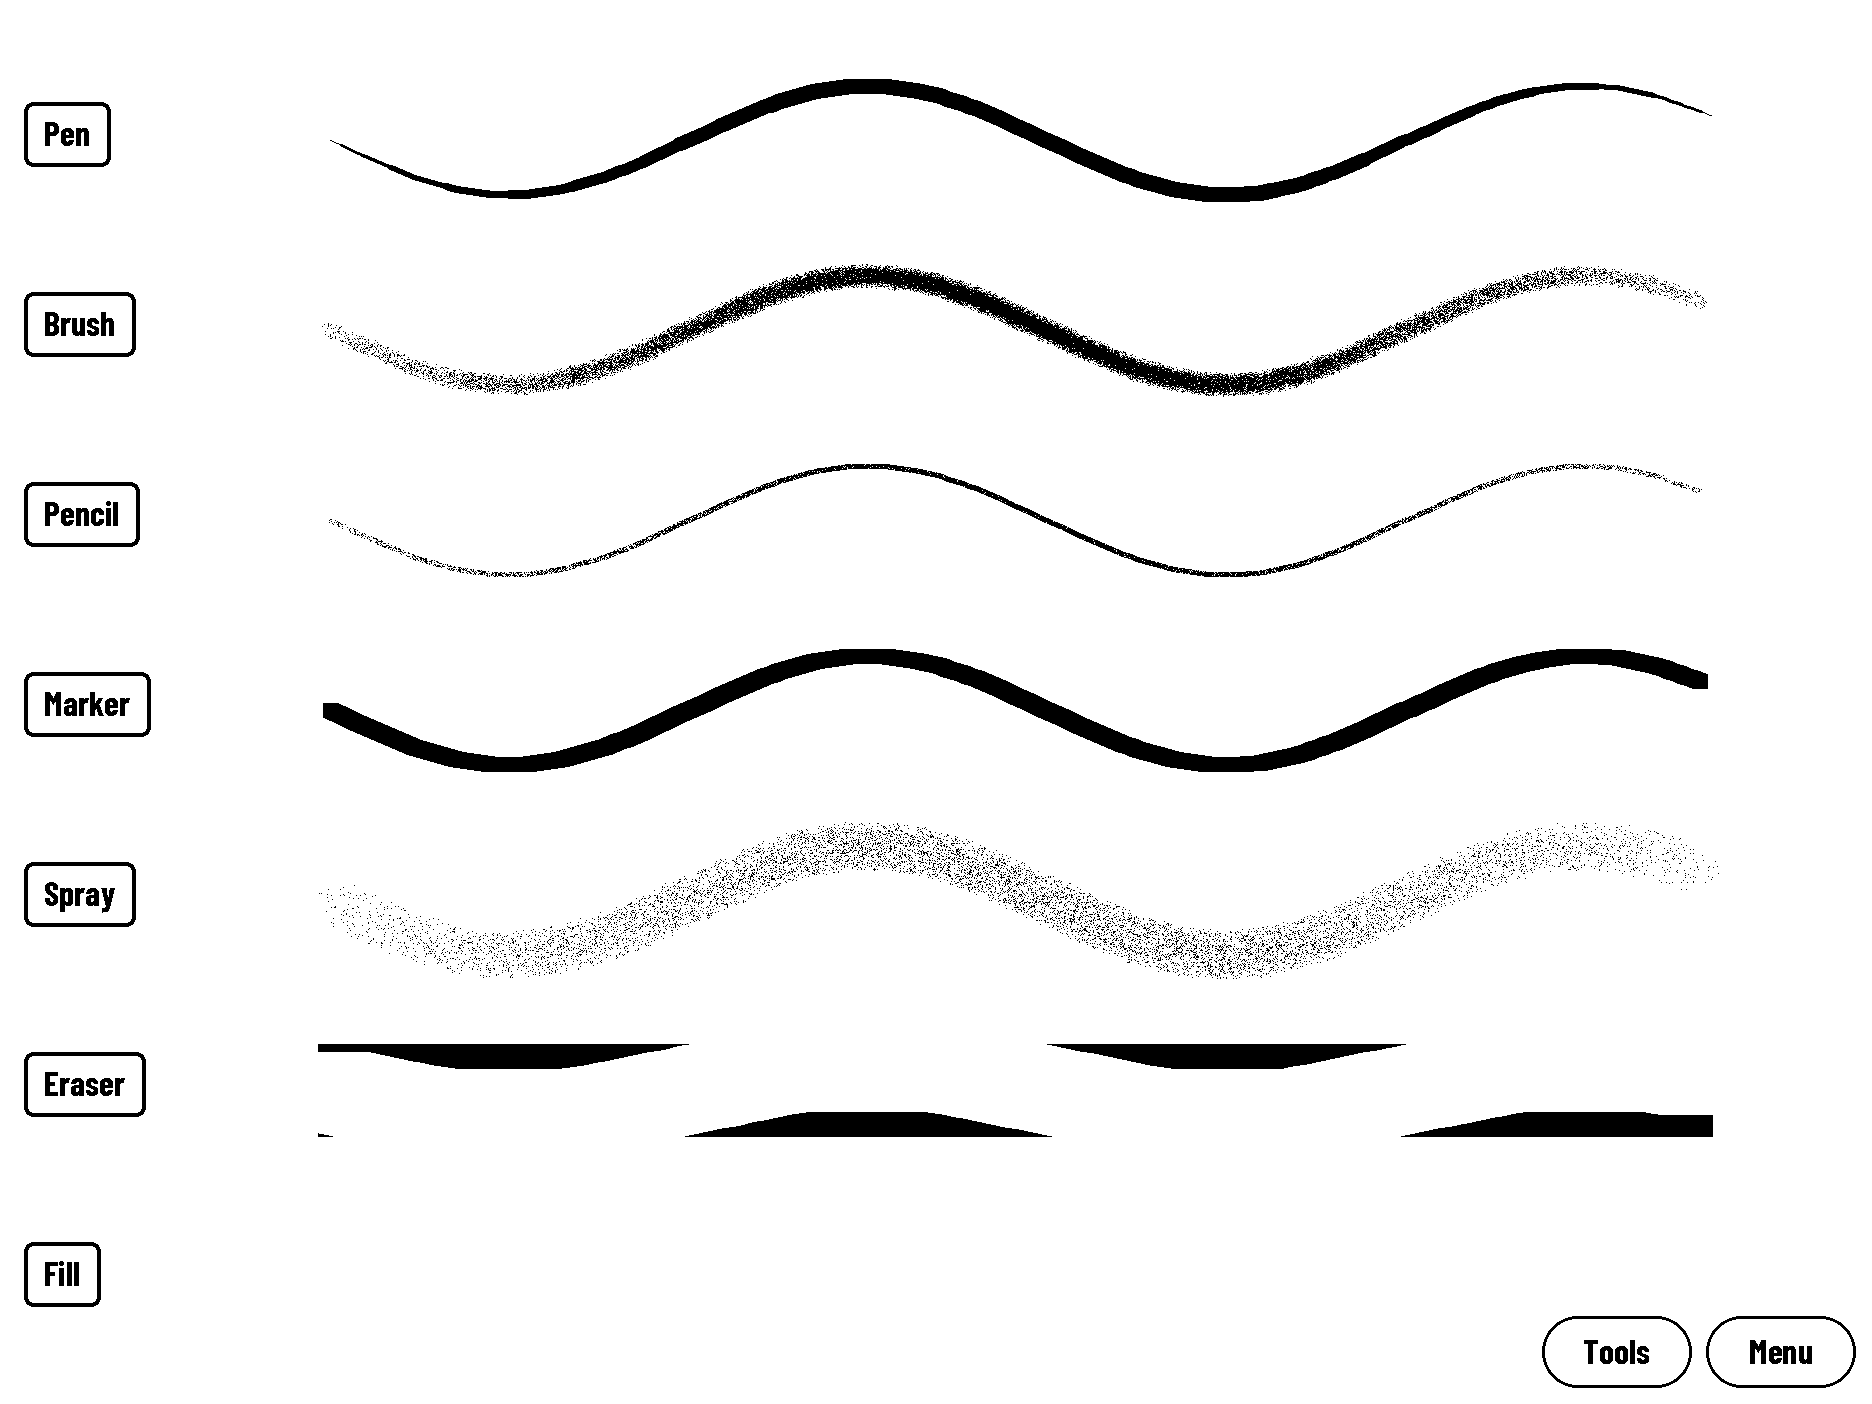
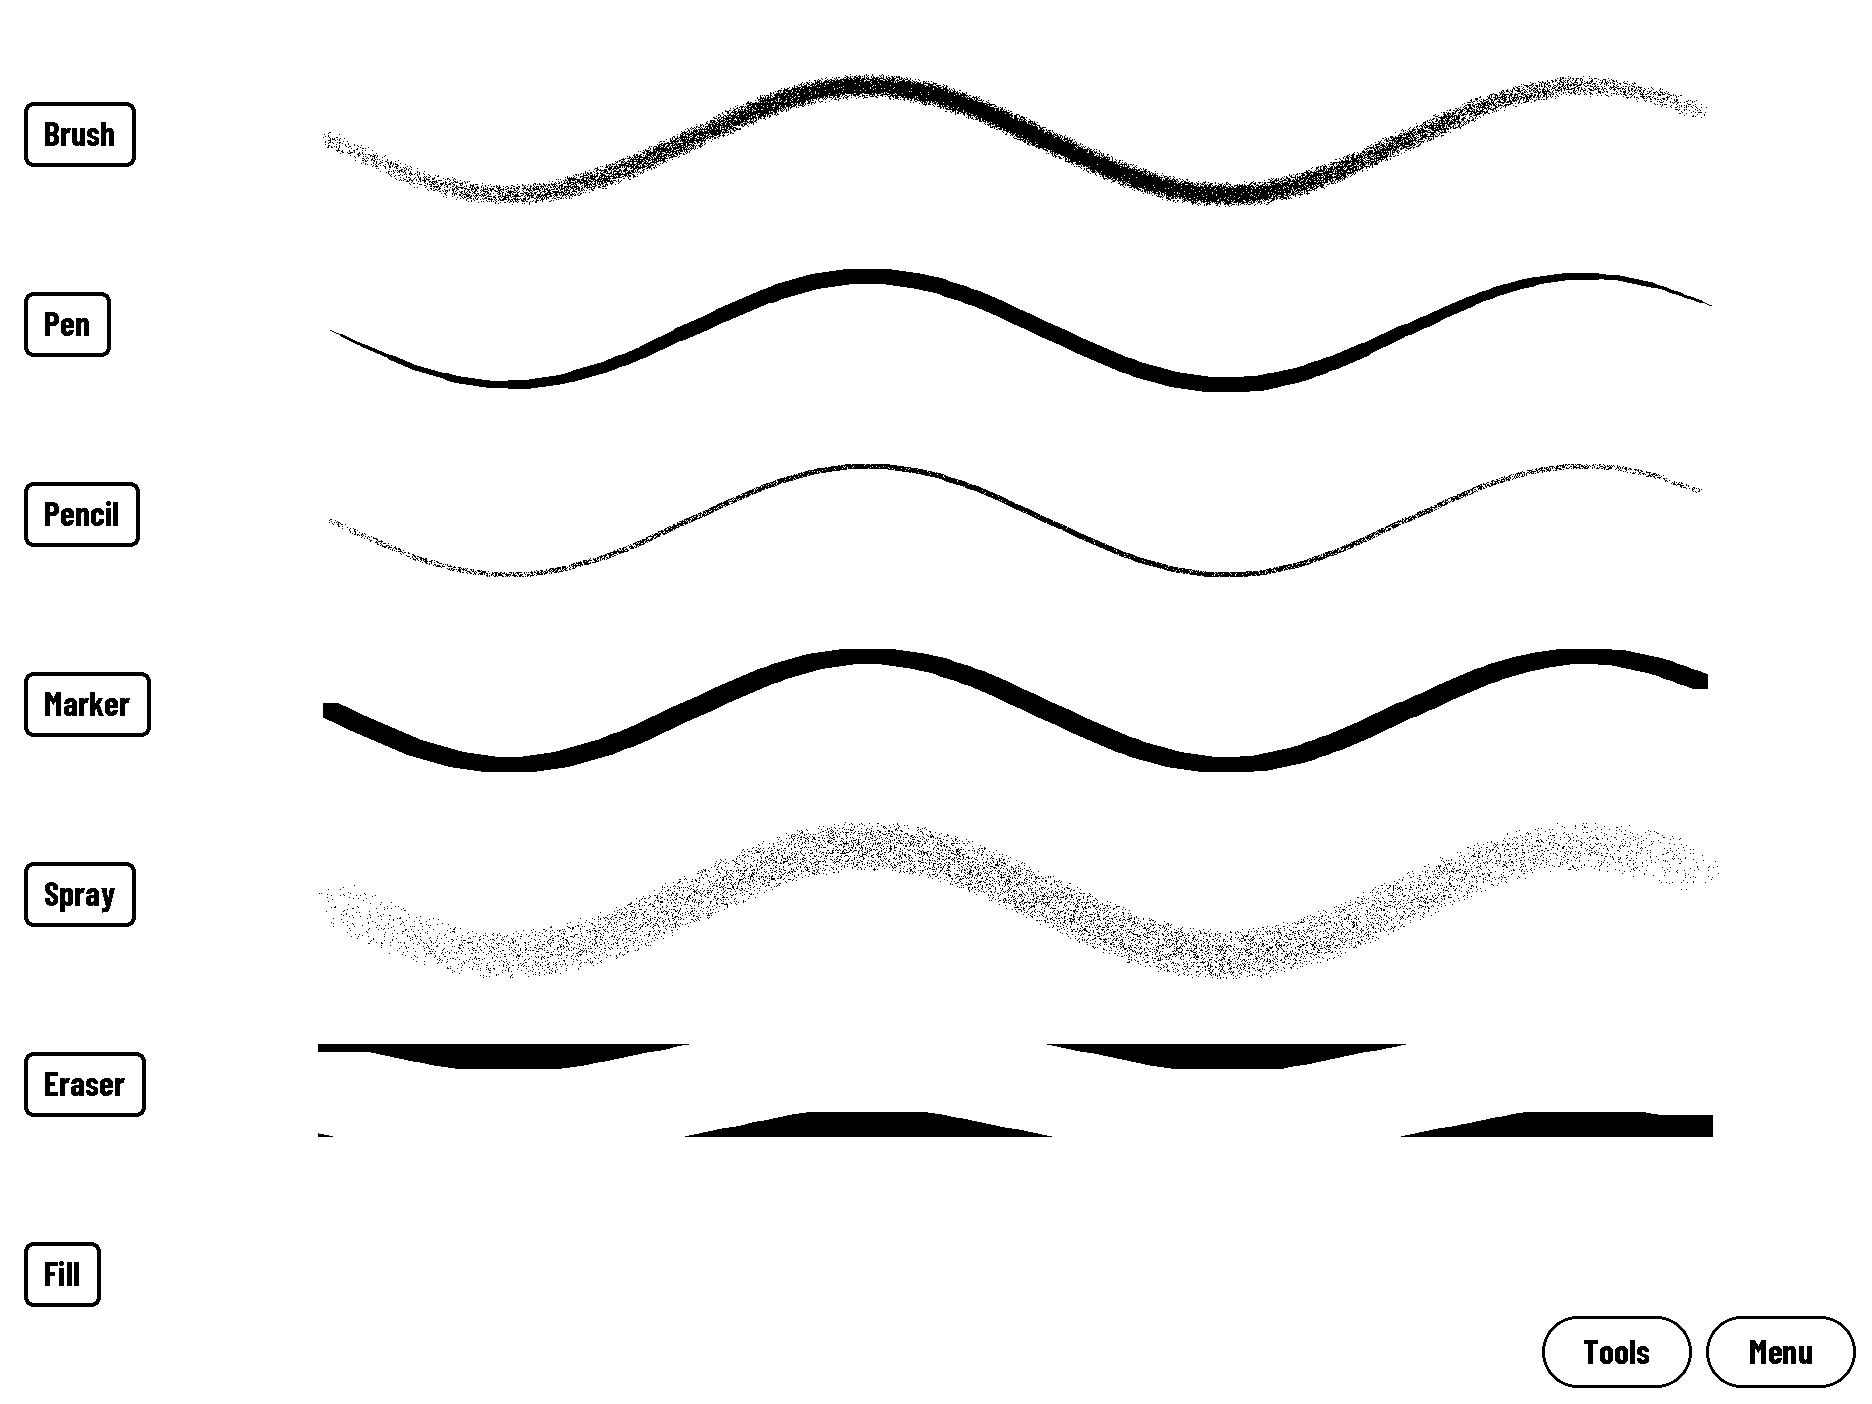
Brush first: Sketch always opens with the Brush; toolbar names come from the tool list
Owner: start with the best tool. The Brush is tool 0 and the first button; the
saved tool is no longer read (colour and size still are). The test rig draws
with the Pen unless keep_tool is set.
Guards: test_oldpage expects the Brush whatever was saved (red with the Pen as
start tool); test_labels_follow_tools (red with the old fixed label table, which
had shown Pen over the Brush icon).

diff --git a/src/brush.c b/src/brush.c
@@ -5,7 +5,7 @@
 #include "penmap.h"
 #include "sk_cfg.h"
 
-static const char *const names[BR_N] = { "Pen", "Brush", "Pencil", "Marker", "Spray", "Eraser", "Fill" };
+static const char *const names[BR_N] = { "Brush", "Pen", "Pencil", "Marker", "Spray", "Eraser", "Fill" };
 
 const char *brush_name(int b) { return names[b < 0 || b >= BR_N ? 0 : b]; }
 const char *shade_name(int sh) { return sh == SH_BLACK ? "Black" : sh == SH_WHITE ? "White" : "Grey"; }
@@ -15,19 +15,13 @@ int brush_is_fill(int b) { return b == BR_FILL; }
 int brush_tail(int b) { return b == BR_PEN; }
 
 /* Small, Medium, Big per brush (pen size = the diameter in px; the eraser's is its side). Fill has no size: it shares the pen's row so the buttons keep their pick */
-static const uint8_t sizes[BR_N][BR_SIZES] = { { 5, 9, 17 }, { 12, 22, 40 }, { 5, 9, 17 }, { 6, 10, 18 }, { 8, 14, 26 }, { 14, 27, 44 }, { 5, 9, 17 } };
+static const uint8_t sizes[BR_N][BR_SIZES] = { { 12, 22, 40 }, { 5, 9, 17 }, { 5, 9, 17 }, { 6, 10, 18 }, { 8, 14, 26 }, { 14, 27, 44 }, { 5, 9, 17 } };
 int brush_size(int b, int cls) { return sizes[b < 0 || b >= BR_N ? 0 : b][cls < 0 ? 0 : cls >= BR_SIZES ? BR_SIZES - 1 : cls]; }
 int brush_size_cls(int b, int size)
 {
     for (int c = 0; c < BR_SIZES; c++)
         if (brush_size(b, c) == size) return c;
     return -1;
-}
-/* Settings of the earlier table: 0 fineliner and 1 brush pen are the Pen, 4 calligraphy the Pen, the rest keep their tool */
-int brush_from_old(int o)
-{
-    static const uint8_t map[8] = { BR_PEN, BR_PEN, BR_PENCIL, BR_MARKER, BR_PEN, BR_SPRAY, BR_ERASER, BR_FILL };
-    return o >= 0 && o < 8 ? map[o] : BR_PEN;
 }
 
 static int sz(int size) { return size < SK_SIZE_MIN ? SK_SIZE_MIN : size > SK_SIZE_MAX ? SK_SIZE_MAX : size; }
@@ -186,7 +180,7 @@ static void stamp_spray(const bctx_t *k, int x, int y, int p) /* dots about the 
 
 static void stamp_none(const bctx_t *k, int x, int y, int p) { (void)k, (void)x, (void)y, (void)p; } /* the bucket draws no stroke */
 
-static const stamp_fn stamps[BR_N] = { stamp_pen, stamp_brush, stamp_pencil, stamp_square, stamp_spray, stamp_square, stamp_none };
+static const stamp_fn stamps[BR_N] = { stamp_brush, stamp_pen, stamp_pencil, stamp_square, stamp_spray, stamp_square, stamp_none };
 
 static void seg_img(const bstyle_t *st, int img, int colour, canvas_t *c, int x0, int y0, int p0, int t0, int x1, int y1, int p1, int t1, box_t *dirty);
 

diff --git a/test/test_toolbar.c b/test/test_toolbar.c
@@ -45,6 +45,12 @@ static void scribble(rig_t *r) /* ink across the places the strip will cover and
     settle(r);
 }
 
+static void test_labels_follow_tools(void)
+{
+    for (int b = 0; b < BR_N; b++) CHECK(!strcmp(tb_label(TI_BRUSH + b), brush_name(b))); /* the button that picks a tool carries its name */
+    CHECK(!strcmp(tb_label(TI_BRUSH), "Brush") && !strcmp(tb_label(TI_MIRROR), "Mirror"));
+}
+
 static void test_toggle_and_restore(void)
 {
     for (int o = 0; o < 4; o++) { /* every position of the X */
@@ -294,9 +300,10 @@ static void test_brushes_through_the_app(void)
             sk_redo(&r.s, r.now += 50);
             CHECK(!memcmp(after, r.s.page.px, sizeof(after)));
             sk_save_now(&r.s);
+            r.keep_tool = 1;
             rig_start(&r, APP_ORIENT_BAR_BOTTOM); /* the page file comes back as it was */
             CHECK(!memcmp(after, r.s.page.px, sizeof(after)));
-            CHECK(r.s.sty.brush == (b == BR_ERASER ? BR_PEN : b) && r.s.sty.shade == sh); /* the pick is kept (not the eraser) */
+            CHECK(r.s.sty.brush == BR_BRUSH && r.s.sty.shade == sh); /* the colour is kept; the tool is the Brush again (owner 2026-11-02) */
             rig_end(&r);
         }
 }
@@ -426,8 +433,9 @@ static void test_each_button_picks(void)
         sk_set_brush(&r.s, BR_SPRAY, r.now += 50);
         sk_set_shade(&r.s, SH_GREY, r.now += 50);
         sk_set_size(&r.s, 2, r.now += 50);
+        r.keep_tool = 1;
         rig_start(&r, o);
-        CHECK(r.s.sty.brush == BR_SPRAY && r.s.sty.shade == SH_GREY && r.s.size_cls == 2 && r.s.sty.size == brush_size(BR_SPRAY, 2));
+        CHECK(r.s.sty.brush == BR_BRUSH && r.s.sty.shade == SH_GREY && r.s.size_cls == 2 && r.s.sty.size == brush_size(BR_BRUSH, 2)); /* colour and size kept, the Brush picked */
         /* a size button gives each tool its own measure: Small < Medium < Big */
         for (int b = 0; b < BR_N; b++) CHECK(brush_size(b, 0) < brush_size(b, 1) && brush_size(b, 1) < brush_size(b, 2) && brush_size_cls(b, brush_size(b, 1)) == 1);
         /* the strip shows exactly one tool, one colour and one size picked (inverted cells differ from the plain cell) */
@@ -437,6 +445,7 @@ static void test_each_button_picks(void)
 
 int main(void)
 {
+    test_labels_follow_tools();
     test_each_button_picks();
     test_toggle_and_restore();
     test_flash_only_strip();

diff --git a/test/test_oldpage.c b/test/test_oldpage.c
@@ -32,11 +32,12 @@ static void test_old_settings(void)
         rig_cfg(&r, "smooth", "10");
         rig_cfg(&r, "use_tilt", "off");
         rig_cfg(&r, "pressure_curve", "firm");
+        r.keep_tool = 1;
         rig_start(&r, APP_ORIENT_BAR_BOTTOM);
         CHECK(!memcmp(saved, r.s.page.px, sizeof(saved))); /* the page is as it was */
         CHECK(r.s.sty.brush < BR_N && r.s.sty.brush != BR_ERASER && tb_item_of_shade(r.s.sty.shade) >= 0 && r.s.size_cls >= 0 && r.s.size_cls < BR_SIZES);
         CHECK(r.s.sty.size == brush_size(r.s.sty.brush, r.s.size_cls));
-        if (k < 8 && k != 6) CHECK(r.s.sty.brush == brush_from_old((int)k)); /* (the eraser becomes the Pen on start, as it always did) */
+        CHECK(r.s.sty.brush == BR_BRUSH); /* owner 2026-11-02: Sketch opens with the Brush, whatever tool was saved */
         CHECK(r.s.sty.shade == SH_GREY); /* the old tone 5 */
         /* the toolbar draws and works with it, and a new stroke inks */
         sk_toolbar(&r.s, r.now);
@@ -48,16 +49,8 @@ static void test_old_settings(void)
     }
 }
 
-static void test_brush_map(void)
-{
-    CHECK(brush_from_old(0) == BR_PEN && brush_from_old(1) == BR_PEN && brush_from_old(4) == BR_PEN); /* fineliner, brush pen and calligraphy are the Pen */
-    CHECK(brush_from_old(2) == BR_PENCIL && brush_from_old(3) == BR_MARKER && brush_from_old(5) == BR_SPRAY && brush_from_old(6) == BR_ERASER && brush_from_old(7) == BR_FILL);
-    CHECK(brush_from_old(8) == BR_PEN && brush_from_old(-1) == BR_PEN && brush_from_old(1000) == BR_PEN);
-}
-
 int main(void)
 {
-    test_brush_map();
     test_old_settings();
     return CHECK_DONE("test_oldpage");
 }

diff --git a/src/toolbar.c b/src/toolbar.c
@@ -13,7 +13,8 @@
 #define TB_CH 104 /* glyph 64 + label */
 enum { TB_BLK = GFX_BLACK, TB_WHT = GFX_WHITE };
 
-static const char *const tb_label[TI_N] = { "Pen", "Brush", "Pencil", "Marker", "Spray", "Eraser", "Fill", "Black", "Grey", "White", "Small", "Medium", "Big", "Mirror" };
+static const char *const tb_other[TI_N - TI_BLACK] = { "Black", "Grey", "White", "Small", "Medium", "Big", "Mirror" };
+const char *tb_label(int i) { return i < TI_BLACK ? brush_name(i) : tb_other[i - TI_BLACK]; } /* the tools named by brush.c, in its order */
 
 int tb_shade_of(int item) { return item == TI_BLACK ? SH_BLACK : item == TI_GREY ? SH_GREY : item == TI_WHITE ? SH_WHITE : -1; }
 int tb_item_of_shade(int shade) { return shade == SH_BLACK ? TI_BLACK : shade == SH_GREY ? TI_GREY : shade == SH_WHITE ? TI_WHITE : -1; }
@@ -49,8 +50,8 @@ int tb_hit(const tb_layout_t *L, int x, int y)
 static void tb_caption(gfx_t *g, const tb_layout_t *L, int i, int x, int y, int c)
 {
     const font_face_t *f = font_get(FONT_BOLD, 24);
-    int w = (int)((font_width64(f, tb_label[i], 0) + 32) >> 6);
-    gfx_text(g, f, (int32_t)(x + (L->cell - w) / 2) * 64, y + TBI_SIZE + 26, tb_label[i], 0, c);
+    int w = (int)((font_width64(f, tb_label(i), 0) + 32) >> 6);
+    gfx_text(g, f, (int32_t)(x + (L->cell - w) / 2) * 64, y + TBI_SIZE + 26, tb_label(i), 0, c);
 }
 
 void tb_draw(gfx_t *g, const tb_layout_t *L, const bstyle_t *cur, int hot)

diff --git a/test/util.h b/test/util.h
@@ -41,6 +41,7 @@ typedef struct {
     int started;
     struct { char k[16], v[16]; } cfg[24]; /* the settings the app stored (cfg_set); a test may pre-set any key with rig_cfg */
     int keep_smooth;    /* a test that wants the app's own stabiliser level (SK_SMOOTH_DEF) sets this before rig_start */
+    int keep_tool;      /* a test that wants the tool the app opens with (the Brush) sets this before rig_start */
     int log_n, log_ev_med, log_ev_p95, log_push_med, log_push_p95, log_samples; /* the latency lines sketch handed to its log */
     int inverted;       /* inverted halves seen (rig_flush) */
     int bare_fulls;     /* full refreshes handed out without their inverted half first: the flash helper was bypassed */
@@ -123,6 +124,7 @@ static inline void rig_start(rig_t *r, int orient)
     sk_env_t env = { &r->fs.fs, r, rig_get, rig_set, { PJ_PWG, fake_post, &r->pr }, rig_log, rig_printer };
     if (sk_init(&r->s, &env, r->fb, TW, TH, TS, orient, &bar)) abort();
     if (!r->keep_smooth) r->s.smooth = 0; /* the stabiliser is off in the tests (the app's is SK_SMOOTH_DEF): the points are exactly the pen's */
+    if (!r->keep_tool) r->s.sty.brush = r->s.last_ink = BR_PEN, r->s.sty.size = (uint8_t)brush_size(BR_PEN, r->s.size_cls); /* the tests draw with the solid Pen (the app opens with the Brush: test_oldpage) */
     sk_set_tablet(&r->s, UM_W, UM_H, 1);
     r->started = 1;
 }

diff --git a/src/sketch.c b/src/sketch.c
@@ -296,7 +296,7 @@ void sk_set_size(sketch_t *s, int cls, uint32_t now)
 void sk_set_brush(sketch_t *s, int brush, uint32_t now)
 {
     if (brush < 0 || brush >= BR_N) return;
-    if (brush != BR_ERASER) s->last_ink = brush, sk_cfg_num(s, "tool", brush);
+    if (brush != BR_ERASER) s->last_ink = brush;
     s->sty.brush = (uint8_t)brush;
     s->sty.size = (uint8_t)brush_size(brush, s->size_cls);
     sk_picked(s, brush_name(brush), now);
@@ -650,10 +650,7 @@ int sk_init(sketch_t *s, const sk_env_t *env, uint8_t *fb, int w, int h, int str
     s->size_cls = cfg_int(s, "size_cls", 1);
     if (s->size_cls >= BR_SIZES) s->size_cls = 1;
     s->sty.shade = (uint8_t)colour_cfg(s);
-    int br = cfg_int(s, "tool", -1);
-    if (br < 0) br = brush_from_old(cfg_int(s, "brush", 0)); /* the earlier ten-brush table: a removed brush becomes the Pen */
-    s->sty.brush = (uint8_t)(br < BR_N ? br : BR_PEN);
-    if (s->sty.brush == BR_ERASER) s->sty.brush = BR_PEN;
+    s->sty.brush = BR_BRUSH; /* owner 2026-11-02: Sketch always opens with the best tool, the Brush */
     s->sty.size = (uint8_t)brush_size(s->sty.brush, s->size_cls);
     s->last_ink = s->sty.brush;
     box_clear(&s->flash);

diff --git a/src/brush.h b/src/brush.h
@@ -8,13 +8,12 @@
 #include "canvas.h"
 
 /* The order is the toolbar's order and the cycle order */
-enum { BR_PEN, BR_BRUSH, BR_PENCIL, BR_MARKER, BR_SPRAY, BR_ERASER, BR_FILL, BR_N };
+enum { BR_BRUSH, BR_PEN, BR_PENCIL, BR_MARKER, BR_SPRAY, BR_ERASER, BR_FILL, BR_N };
 /* The three size buttons (Small, Medium, Big): brush_size gives the pen size (1..48) of a button for a brush; brush_size_cls the button a size belongs to, or -1 */
 #define BR_SIZES 3
 int brush_size(int brush, int cls);
 int brush_size_cls(int brush, int size);
 /* A brush id of the earlier ten-brush table (fineliner, brush pen, pencil, marker, calligraphy, spray, eraser, fill) as it is now */
-int brush_from_old(int old);
 
 typedef struct {
     uint8_t brush, shade, size; /* BR_*, SH_*, the pen size 1..48 */

diff --git a/src/toolbar.h b/src/toolbar.h
@@ -25,6 +25,7 @@ int tb_hit(const tb_layout_t *L, int x, int y); /* the item under the point, or 
 /* The shade a colour item stands for (Black, Grey, White), or -1 for another item; and the colour item of a shade, or -1 */
 int tb_shade_of(int item);
 int tb_item_of_shade(int shade);
+const char *tb_label(int item); /* the name under a toolbar button */
 /* Draws the strip; the current brush, colour and size are shown inverted, item `hot` (-1: none) has a frame (the pen is over it) */
 void tb_draw(gfx_t *g, const tb_layout_t *L, const bstyle_t *cur, int hot);
 #endif

diff --git a/test/test_paintbrush.c b/test/test_paintbrush.c
@@ -31,7 +31,7 @@ static void test_toolbar_pick(void)
     rig_t r;
     rig_new(&r, APP_ORIENT_BAR_BOTTOM);
     sk_toolbar(&r.s, r.now);
-    CHECK(TI_BRUSH + BR_BRUSH == 1 && !strcmp(brush_name(BR_BRUSH), "Brush"));
+    CHECK(TI_BRUSH + BR_BRUSH == 0 && !strcmp(brush_name(BR_BRUSH), "Brush"));
     int x = r.s.tb.cx[TI_BRUSH + BR_BRUSH] + 20, y = r.s.tb.cy + 20;
     rig_pen_user(&r, x, y, APP_PEN_IN_RANGE, 0);
     rig_pen_user(&r, x, y, APP_PEN_TIP | APP_PEN_IN_RANGE, 30000);
